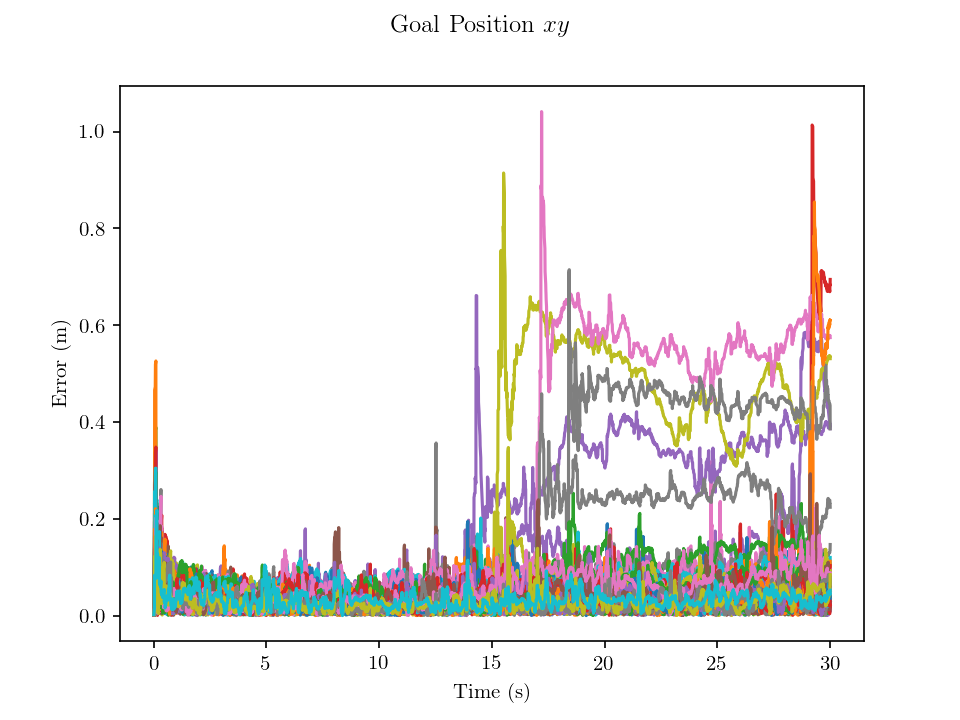
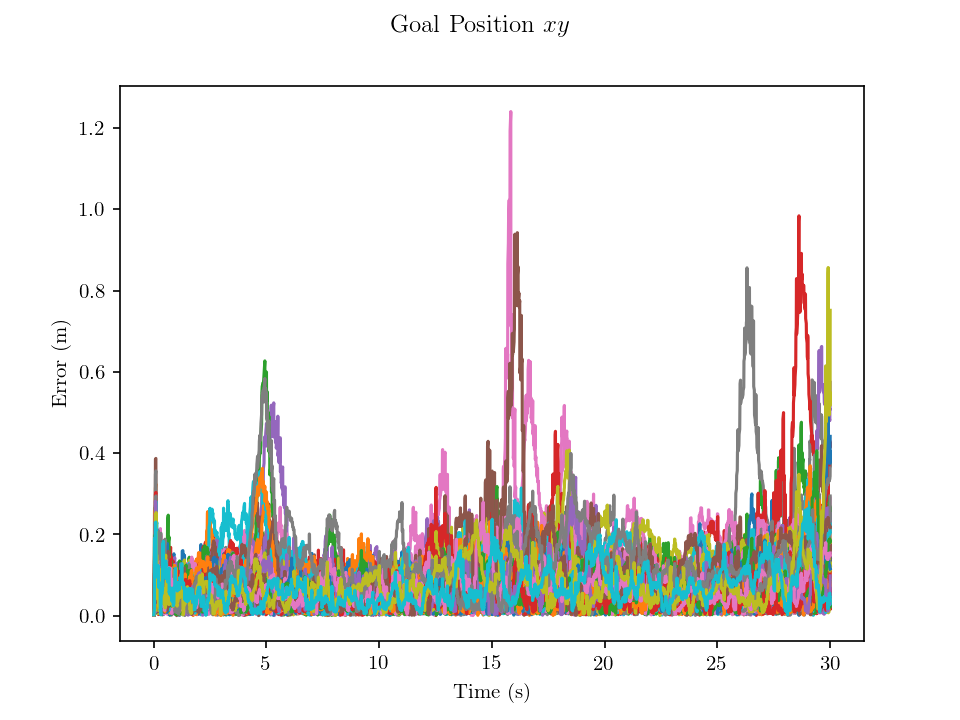
revamp simulation section

diff --git a/simulation/simulation.tex b/simulation/simulation.tex
@@ -54,32 +54,41 @@ simulated camera was oriented at a yaw angle of $\pi/2 \hphantom{\cdot} rad$ wit
 frame and $p_{c/b}^b = \begin{bmatrix}0.25, & -0.2, &
 0.4 \end{bmatrix}^\transpose m$.
 
-The results for simulations where the estimator uses ten visual landmarks and
-zero visual landmarks are seen in~\ref{fig:BLAH} and~\ref{fig:BLAH}
-respectively. We do not include the plots of the UAV states,
+The simulation results for a 30 second simulation in which the estimator does
+not use any visual landmarks are seen in
+Figures~\ref{fig:no_lms_gp}, \ref{fig:no_lms_gv}, \ref{fig:no_lms_gatt}. In the
+experiment shown, the measurements from the fiducial landing marker are not used
+after $t = 5 \hphantom{\cdot} s$ to demonstrate the performance of the proposed
+estimation algorithm when the fiducial marker is not detected for significant
+periods of time. The figures clearly show that when measurements from the
+fiducial marker are not available, the covariance of the estimate grows rapidly
+and the estimated state of the landing vehicle quickly becomes inaccurate. This
+matches our intuition as the estimator receives no information about the landing
+vehicle after $t = 5 \hphantom{\cdot} s$ and therefore is only able to propagate
+the dynamics of the system. We note that the $z$ direction of the estimated
+relative goal position is the exception as the landing vehicle is constrained to
+move only in the $xy$ plane. We do not include the plots of the UAV states,
 $\vect{x}_{\text{UAV}}$, as it is well known that these states are easily
-estimated with the given measurements. In the experiments shown in the plots,
-the measurements from the fiducial landing marker are not used after $t = 5 s$
-in the simulation to demonstrate the performance of the proposed estimation
-algorithm. The figures clearly show that when ten visual landmarks are used by
-the estimator, the estimates of the goal states remain accurate and consistent
-throughout the duration of the simulation. However, when no visual landmarks are
-used by the estimator, the estimate of the goal states quickly become incorrect.
-We note that the $z$ direction of the goal position is the exception to this
-because the landing vehicle is constrained to move only in the $xy$ plane.
+estimated with the given measurements.
 
-To further demonstrate this performance, 100 simulation runs were performed
+Simulation results for the same scenario, but in which the estimator uses a
+maximum of 10 visual landmarks, are seen in
+Figures~\ref{fig:with_lms_gp}, \ref{fig:with_lms_gv}, \ref{fig:with_lms_gatt}.
+These figures clearly show that even after $t = 5 \hphantom{\cdot} s$ when the
+fiducial marker measurements are no longer available, the estimated states of
+the landing vehicle remain accurate with relatively tight covariance bounds. We
+reiterate that the only information the estimator receives during this time is
+the measured pixel locations of unknown visual landmarks on the landing vehicle.
+
+To further demonstrate performance, 100 simulation runs of the same scenario
+mentioned above were performed
 both using ten visual landmarks and using zero visual landmarks. The L2 norm of
-the errors in the $x$ and $y$ direction of the goal position state are plotted
-with respect to time in~\ref{fig:BLAH}. While the error when using ten landmarks
-almost entirely remains under 1 m for all 100 simulations, the error when using
-no landmarks quickly grows larger that 1 m. The error for several of the
-simulations reaches over 10 m after 30s.
-
-These simulation results clearly demonstrate the ability to maintain accurate
-and consistent estimates of the goal states when the fiducial landing marker is
-not detected for significant periods of time.
-
+the $xy$ error of the estimated goal position state are plotted
+with respect to time in
+Figures~\ref{fig:mc_no_lms_xy_err}~and~\ref{fig:mc_with_lms_xy_err}. While the error when using ten landmarks
+almost entirely remains under 1 $m$ for all 100 simulations, the error when using
+no landmarks quickly grows very large, reaching an error of over 10 $m$ in many
+of the runs.
 
 \begin{table}[h!]
   \begin{center}
@@ -117,14 +126,50 @@ not detected for significant periods of time.
       Gyroscope & 0.1 $rad/s$ & 250 Hz \\
       % walk & 0.01 $rad/s$  \\
       % init & 0.01 $rad/s$ \\
-      UAV global position & 0.01 $m$ & 10 Hz \\
-      UAV global attitude & 0.001 $rad$ & 10 Hz \\
+      UAV global position & 0.05 $m$ & 10 Hz \\
+      UAV global attitude & 0.01 $rad$ & 10 Hz \\
       Fiducial marker position & 0.1 $m$ & 30 Hz \\
       Fiducial marker attitude & 0.1 $rad$ & 30 Hz \\
       Landmark image point & 2.0 pixels & 30 Hz \\
     \end{tabular}
   \end{center}
 \end{table}
+
+\begin{figure}
+  \centering
+  \includegraphics[scale=0.5]{plots/no_lms_gp.png}
+  \caption{Simulation results with the estimator using no visual
+  landmarks. The blue line represents the true state while the orange line
+  represents the estimated state. The two grey lines show a 2 $\sigma$ bound for
+  the estimate based on the estimated covariance. Measurements from the fiducial
+  marker are not used after $t$~=~5
+$s$ to demonstrate the performance of the estimator.}
+  \label{fig:no_lms_gp}
+\end{figure}
+
+\begin{figure}
+  \centering
+  \includegraphics[scale=0.5]{plots/no_lms_gv.png}
+  \caption{Simulation results with the estimator using no visual
+  landmarks. The blue line represents the true state while the orange line
+  represents the estimated state. The two grey lines show a 2 $\sigma$ bound for
+  the estimate based on the estimated covariance. Measurements from the fiducial
+  marker are not used after $t$~=~5
+$s$ to demonstrate the performance of the estimator.}
+  \label{fig:no_lms_gv}
+\end{figure}
+
+\begin{figure}
+  \centering
+  \includegraphics[scale=0.5]{plots/no_lms_gatt.png}
+  \caption{Simulation results with the estimator using no visual
+  landmarks. The blue line represents the true state while the orange line
+  represents the estimated state. The two grey lines show a 2 $\sigma$ bound for
+  the estimate based on the estimated covariance. Measurements from the fiducial
+  marker are not used after $t$~=~5
+$s$ to demonstrate the performance of the estimator.}
+  \label{fig:no_lms_gatt}
+\end{figure}
 
 \begin{figure}
   \centering
@@ -153,31 +198,16 @@ $s$ to demonstrate the performance of the estimator.}
   \label{fig:with_lms_gatt}
 \end{figure}
 
-\begin{figure}
-  \centering
-  \includegraphics[scale=0.5]{plots/no_lms_gp.png}
-  \caption{Simulation results with estimator using no visual
-  landmarks. Measurements from the fiducial marker are not used after $t$ = 5
-$s$ to demonstrate the performance of the estimator.}
-  \label{fig:no_lms_gp}
-\end{figure}
 
 \begin{figure}
   \centering
-  \includegraphics[scale=0.5]{plots/no_lms_gv.png}
+  \includegraphics[scale=0.5]{plots/mc_no_lms_xy_err.png}
   \caption{Simulation results with estimator using no visual
   landmarks. Measurements from the fiducial marker are not used after $t$ = 5
-$s$ to demonstrate the performance of the estimator.}
-  \label{fig:no_lms_gv}
-\end{figure}
-
-\begin{figure}
-  \centering
-  \includegraphics[scale=0.5]{plots/no_lms_gatt.png}
-  \caption{Simulation results with estimator using no visual
-  landmarks. Measurements from the fiducial marker are not used after $t$ = 5
-$s$ to demonstrate the performance of the estimator.}
-  \label{fig:no_lms_gatt}
+$s$ to demonstrate the performance of the estimator. The L2 norm of the error in
+the x and y directions of the goal position is seen for 100 different simulation
+runs.}
+  \label{fig:mc_no_lms_xy_err}
 \end{figure}
 
 \begin{figure}
@@ -191,13 +221,3 @@ runs.}
   \label{fig:mc_with_lms_xy_err}
 \end{figure}
 
-\begin{figure}
-  \centering
-  \includegraphics[scale=0.5]{plots/mc_no_lms_xy_err.png}
-  \caption{Simulation results with estimator using no visual
-  landmarks. Measurements from the fiducial marker are not used after $t$ = 5
-$s$ to demonstrate the performance of the estimator. The L2 norm of the error in
-the x and y directions of the goal position is seen for 100 different simulation
-runs.}
-  \label{fig:mc_no_lms_xy_err}
-\end{figure}

diff --git a/estimation/estimator.tex b/estimation/estimator.tex
@@ -85,7 +85,7 @@ As the estimated state is not a vector, but rather a tuple of Lie groups, we
 employ the error-state Kalman filter (ESKF) as described in~\cite{koch2017relative}.
 The error-state of the estimated system is defined by
 \begin{equation*}
-  \tilde{\vect{x}} &=
+  \tilde{\vect{x}} =
   \begin{bmatrix}
     \tilde{\vect{p}}_{b/I}^{I}, \tilde{\vect{\theta}}_I^{b}, \tilde{\vect{v}}_{b/I}^b,
     \tilde{\vect{\beta}}_a,
